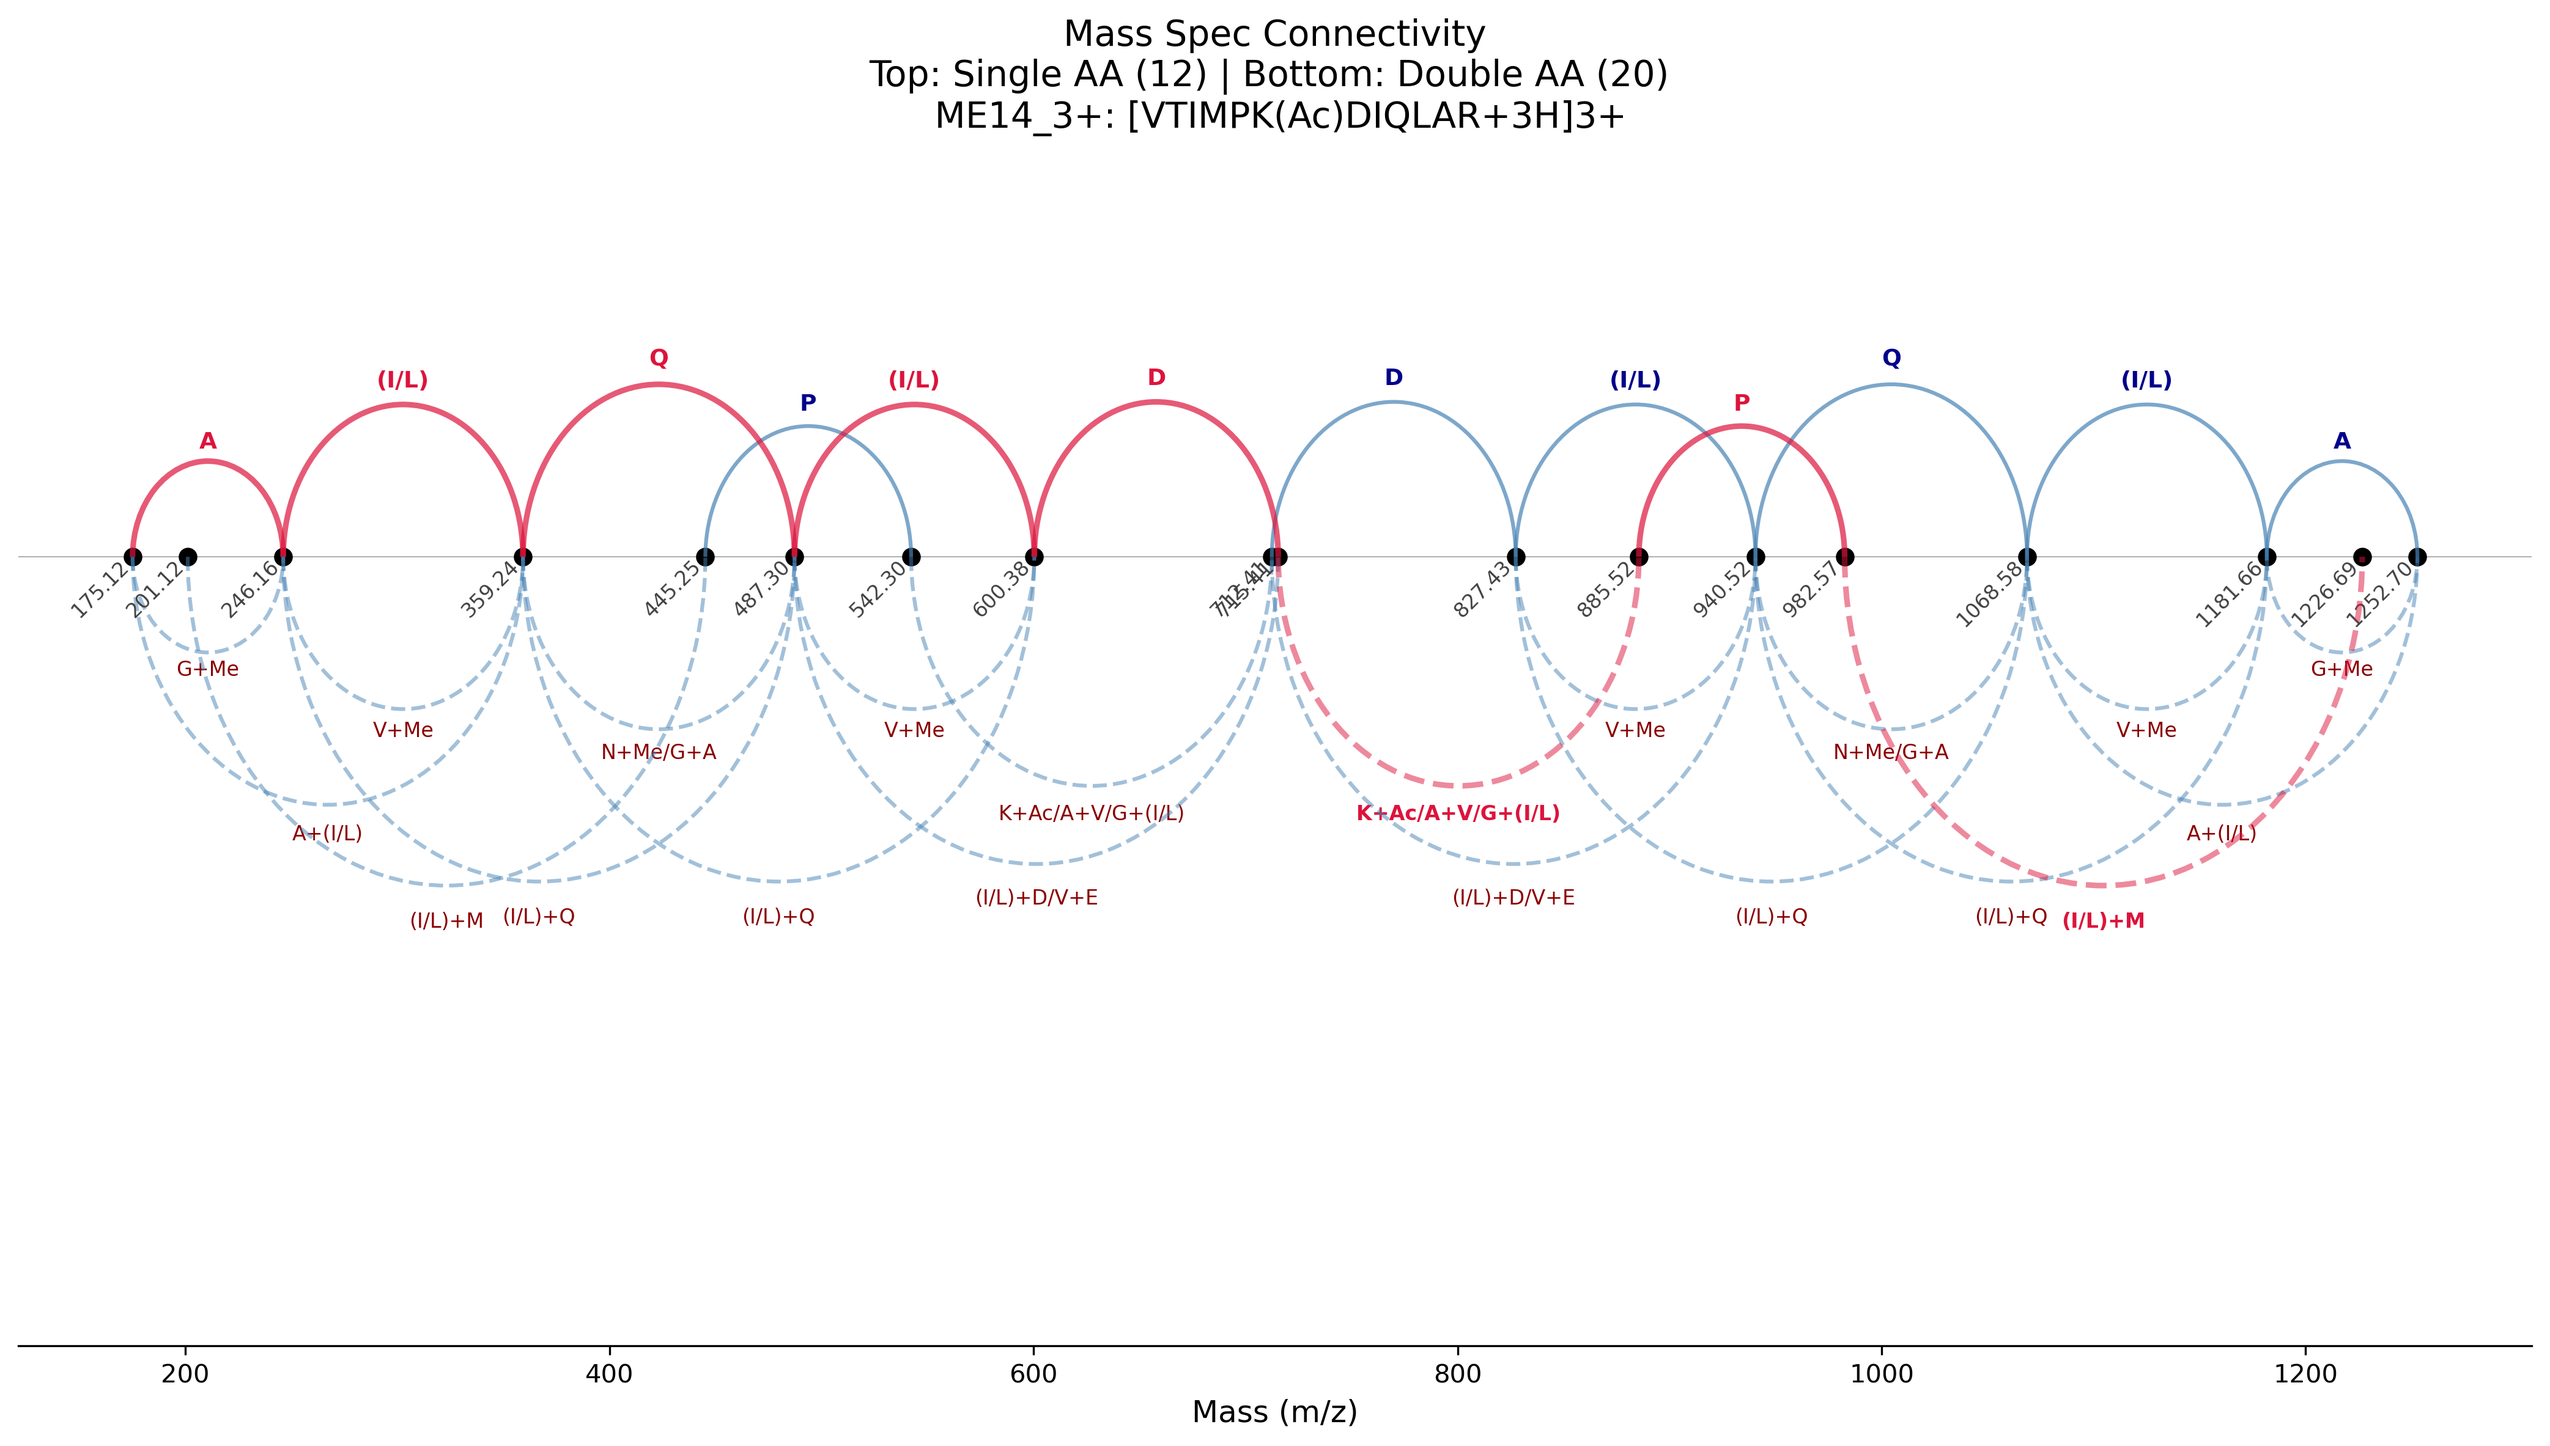
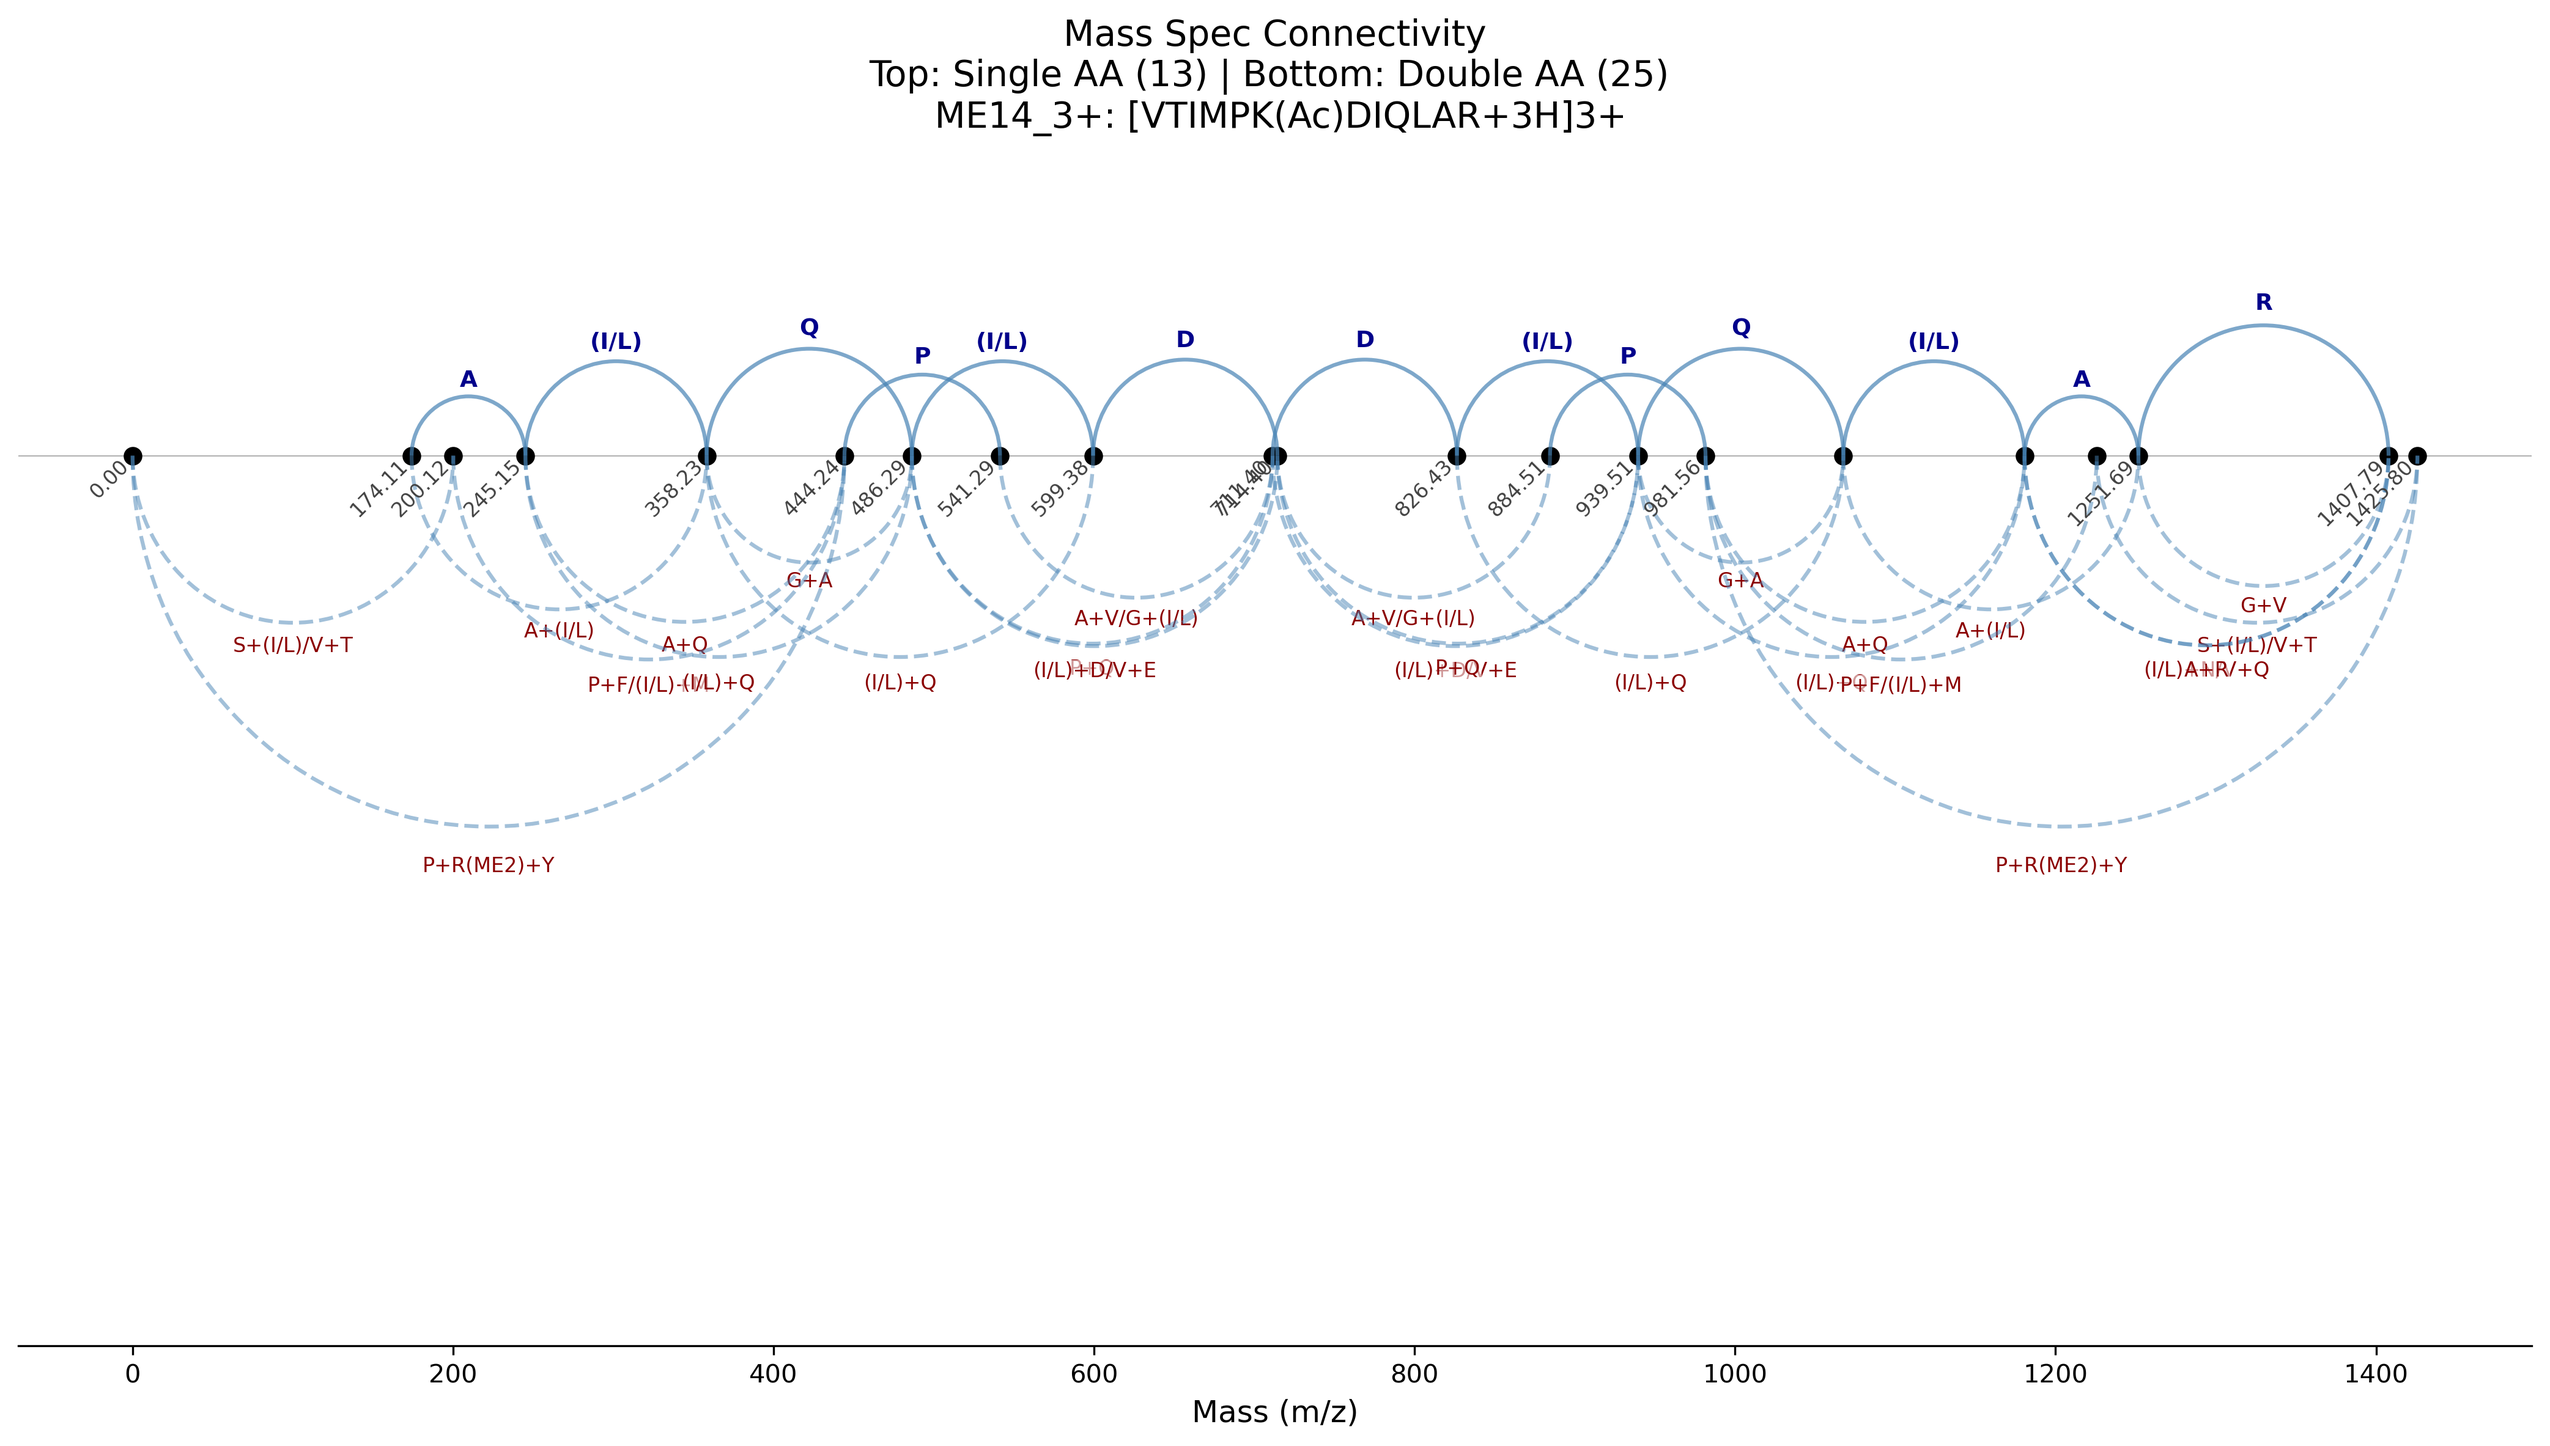
。

diff --git a/vis_connect/connected_graph.py b/vis_connect/connected_graph.py
@@ -18,6 +18,7 @@ from typing import Dict, List, Tuple, Literal
 
 
 proton = 1.007276
+H2O = 18.015
 RepMethod = Literal["first", "last", "mean", "median"]
 
 def merge_close_values(sorted_array, threshold, method="first"):
@@ -87,8 +88,8 @@ AA_MASSES = {
     'N': 114.042927, 'D': 115.026943, 'Q': 128.058578,
     'K': 128.094963, 'E': 129.042593, 'M': 131.040485, 'H': 137.058912,
     'F': 147.068414, 'R': 156.101111, 'Y': 163.063329, 'W': 186.079313,
-    'Me': 14.01565, 'Me2':28.03130, 'nitro': 44.98508, "Ac": 42.01056,
-    'E(nitro)': 129.042593 + 44.98508
+    #'Me': 14.01565, 'Me2':28.03130, 'nitro': 44.98508, "Ac": 42.01056, 'E(nitro)': 129.042593 + 44.98508
+    'R(ME2)': 156.101111 + 28.03130
 }
 DOUBLE_AA_MASSES = {}
 for aa1, aa2 in combinations_with_replacement(AA_MASSES.keys(), 2):
@@ -128,6 +129,10 @@ def build_quadra_aa_masses(AA_MASSES: dict) -> dict:
     return quad
 
 QUADRA_AA_MASSES = build_quadra_aa_masses(AA_MASSES)
+#print(QUADRA_AA_MASSES)
+#for i in QUADRA_AA_MASSES:
+#    if 'R(ME2)' in i and 'G' in i and 'W' in i:
+#        print(i, QUADRA_AA_MASSES[i])
 
 
 def cluster_mass_dict(
@@ -217,7 +222,7 @@ def find_all_connections(peaks, tolerance=0.005, merge_double = False):
             mass_diff = peaks[j] - peaks[i]
 
             # Optimization: Stop if diff is too large for even the largest double (Trp+Trp ~ 372)
-            if mass_diff > 400:
+            if mass_diff > 500:
                 break
 
             # 1. Check for Single AA matches
@@ -231,19 +236,30 @@ def find_all_connections(peaks, tolerance=0.005, merge_double = False):
                  if abs(mass_diff - double_mass) <= tolerance:
                     double_conns.append((peaks[i], peaks[j], label))
             
-            for label, triple_mass in triple_dict.items():
-                 if abs(mass_diff - triple_mass) <= tolerance:
-                    triple_conns.append((peaks[i], peaks[j], label))
+            if i == 0 or j == len(peaks) - 1:
+                for label, triple_mass in triple_dict.items():
+                    if abs(mass_diff - triple_mass) <= tolerance:
+                        triple_conns.append((peaks[i], peaks[j], label))
                     
             ## the quadra connection only exist from 0 or to entire_pepmass
             if i == 0 or j == len(peaks) - 1:
                 for label, quodra_mass in quodra_dict.items():
+                    
                     if abs(mass_diff - quodra_mass) <= tolerance:
                         quodra_conns.append((peaks[i], peaks[j], label))
 
     return single_conns, double_conns, triple_conns, quodra_conns
 
 
+def two_g(the_string):
+    result = 0
+    for i in the_string:
+        if i =='G':
+            result += 1
+    if result == 2:
+        return True
+    else:
+        return False
 
 
 def plot_complex_arc_graph(peaks, single_conns, double_conns, highlight_sequence=None, seq = '', show_graph = True, save_path = False):
@@ -506,14 +522,15 @@ def build_mass_list(
         elif row['charge2'][0] == '2':
             mass2_charge = row['correct_mass2'] * 2 - proton
 
-        return mass1_charge, mass2_charge
+        #return mass1_charge, mass2_charge
+        return mass1_charge - proton, mass2_charge - proton
         
             
     df_parent[['mass1_charge', 'mass2_charge']] = df_parent.apply(mass_mul_charge, axis=1, result_type='expand')
     print(df_parent[['ion1', 'ion2', 'mass1_charge', 'mass2_charge']])
     mass_list = list(set(df_parent["mass1_charge"].tolist() + df_parent["mass2_charge"].tolist()))
     mass_list.sort()
-    return mass_list, f'{data}: {sequence}', pep_mass
+    return mass_list, f'{data}: {sequence}', pep
 
 
 # --- NEW: Pathfinding Function ---
@@ -583,32 +600,106 @@ def find_all_paths(start_peak, all_connections):
     return found_paths
 
 
+def get_path_length(path_labels):
+    return len(path_labels)
+
+
+def find_paths_above_threshold(start_peak, all_connections, 
+                               scoring_function, score_threshold):
+    """
+    Finds all paths (sequences of labels) starting from a given
+    start_peak that have a score *above* the specified threshold.
+
+    Args:
+        start_peak (float): The exact mass of the peak to start from.
+        all_connections (list): A *combined* list of all connection tuples
+                                [(start, end, label), ...]
+        scoring_function (callable): A function that takes a list of labels
+                                     (a path) and returns a numerical score.
+        score_threshold (float/int): The minimum score a path must have
+                                     (exclusive) to be included in the results.
+
+    Returns:
+        list of lists: A list where each inner list is a path (sequence of labels)
+                       that passed the score threshold.
+                       e.g., [['A', 'B'], ['A', 'C', 'D']]
+    """
+    
+    # --- Step 1: Build the adjacency list (graph_map) ---
+    # (This is identical to your original code)
+    graph_map = {}
+    for start, end, label in all_connections:
+        if start not in graph_map:
+            graph_map[start] = []
+        graph_map[start].append((end, label))
+
+    # --- Step 2: Define the recursive DFS helper function ---
+    def dfs_recursive(current_peak, current_path):
+        """
+        Recursively explores paths from the current_peak.
+        'found_paths' is populated by the outer function.
+        """
+        
+        outgoing_edges = graph_map.get(current_peak, [])
+
+        # --- Base Case ---
+        # If there are no outgoing edges, this is the end of a path.
+        if not outgoing_edges:
+            # Only score and save paths that are not empty
+            if current_path:
+                # --- MODIFIED SECTION ---
+                # 1. Score the path *at the end*
+                current_score = scoring_function(current_path)
+                
+                # 2. Only append it if it meets the threshold
+                if current_score > score_threshold:
+                    found_paths.append(list(current_path))
+                # --- END MODIFIED SECTION ---
+            return # Stop recursion for this branch
+
+        # --- Recursive Step ---
+        # (This is identical to your original code)
+        for next_peak, label in outgoing_edges:
+            current_path.append(label)
+            dfs_recursive(next_peak, current_path)
+            current_path.pop() # Backtrack
+
+    # --- Step 3: Start the search ---
+    found_paths = []
+    dfs_recursive(start_peak, [])
+    
+    return found_paths
+
 
 
 
 if __name__ == "__main__":
-    data = 'ME4_2+'
-    my_peaks, sequence, pep_mass = build_mass_list(data)
+    data = 'ME9_3+'
+    my_peaks, sequence, pep = build_mass_list(data)
+    pep_mass = pep.pep_mass
+    pep_charge = 2 if int(pep.charge[0]) == 2 else 3
     
-    print(my_peaks)
+    #print(my_peaks)
     
-    my_peaks = [0] + my_peaks + [pep_mass]
-    my_peaks = merge_close_values(my_peaks, threshold=0.001)
-    print(my_peaks)
-    s_conns, d_conns, t_conns, q_conns = find_all_connections(my_peaks, tolerance=0.001, merge_double=True)
+    my_peaks = [0] + my_peaks +[pep_mass - proton*pep_charge - H2O]+[pep_mass - proton*pep_charge]
+    my_peaks = merge_close_values(my_peaks, threshold=0.01)
+    #print(my_peaks)
+    s_conns, d_conns, t_conns, q_conns = find_all_connections(my_peaks, tolerance=0.008  , merge_double=True)
     
-    print(q_conns)
+    print('q_cons:', q_conns)
 
     d_conns = d_conns + t_conns + q_conns
 
     # Define the sequence you want to find
-    seq_to_find = ['A', '(I/L)', 'Q', '(I/L)', 'D', 'K+Ac/A+V/G+(I/L)', 'P', '(I/L)+M'] 
+    seq_to_find = ['E+Q+S/E+N+T/D+Q+T/(I/L)+E(nitro)+G/A+E(nitro)+V', 'Y', 'G', 'F', 'Q', 'N', 'A', '(I/L)', '(I/L)', 'V+R'] 
     # Call WITH the new argument
     plot_complex_arc_graph(my_peaks, s_conns, d_conns, highlight_sequence=seq_to_find, seq=sequence, show_graph=False, save_path=f'vis_connect/connected_graph/{data}.png')
     
-    all_conns = s_conns + d_conns + t_conns
+    all_conns = s_conns + d_conns
     start_from_peak = my_peaks[0]
-    all_paths = find_all_paths(start_from_peak, all_conns)
+    #all_paths = find_all_paths(start_from_peak, all_conns)
+    
+    #print(q_conns)
     
     '''
     print(f"\n--- Paths found starting from {start_from_peak} ---")
@@ -618,4 +709,40 @@ if __name__ == "__main__":
     else:
         print("No paths found from this starting peak.")
     '''
+    min_length = 7
     
+    good_paths = find_paths_above_threshold(
+    start_from_peak, 
+    all_conns, 
+    get_path_length,  # The scoring function
+    min_length        # The threshold
+    )
+    
+    print(len(good_paths))
+    
+    
+    
+    print(f"\n--- Paths found starting from {start_from_peak} ---")
+    if good_paths:
+        for i, path in enumerate(good_paths):
+            print(f"Path {i+1}: {' -> '.join(path)}, the score is {len(path)}")
+    else:
+        print("No paths found from this starting peak.")
+    
+    
+    
+    '''
+    result = []
+    min_length = 0
+    for i in np.arange(0.01, 0.11, 0.01):
+        s_conns, d_conns, t_conns, q_conns = find_all_connections(my_peaks, tolerance=i, merge_double=True)
+        all_conns = s_conns + d_conns + t_conns + q_conns
+        good_paths = find_paths_above_threshold(
+            start_from_peak, 
+            all_conns, 
+            get_path_length,  # The scoring function
+            min_length        # The threshold
+            )
+        result.append(len(good_paths))
+    print(result)
+    '''
